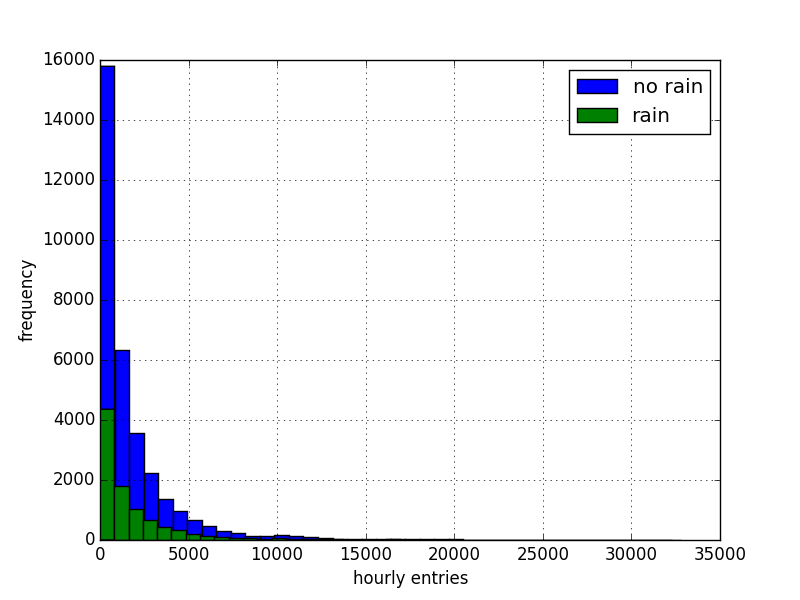
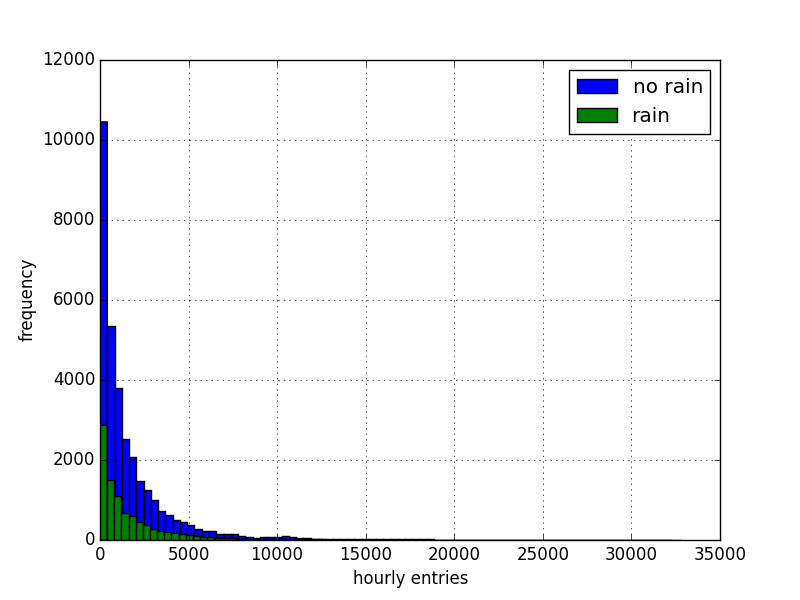
Finished everything up...

Changed region(s): [[0.0312, 0.09, 0.4062, 0.9], [0.0625, 0.48, 0.0938, 0.51], [0.0625, 0.09, 0.0938, 0.12]]

diff --git a/Documents/data_science/p1_v2/answers.html b/Documents/data_science/p1_v2/answers.html
@@ -1,0 +1,144 @@
+<h3>Section 1. Statistical Test</h3>
+
+<h3>1.1 Which statistical test did you use to analyse the NYC subway data? Did you use a one-tail or a two-tail P value? What is the null hypothesis? What is your p-critical value?</h3>
+
+	<p>I used a two tailed Mann-Whitney U test, whith a p critical value of .05. The null hypothesis in this case is that the ridership on any given rainy day is niether more nor less likely to have a higher value than the ridership on any given clear day.</p> 
+
+<h3>1.2 Why is this statistical test applicable to the dataset? In particular, consider the assumptions that the test is making about the distribution of ridership in the two samples.</h3>
+
+	<p>The Mann Whitney U test is particularly useful for this data set given its non-normal distribution. The Mann Whiteney U test, (unlike the Welche's T-test), does not assume a normal distribution, so it can be used on this data set to compare the two populations.</p> 
+
+<h3>1.3 What results did you get from this statistical test? These should include the following numerical values: p-values, as well as the means for each of the two samples under test.</h3>
+
+	<ul>
+	<li>Mean with no rain: 1105.5</li>
+	<li>Mean with rain: 1090.3</li>
+	<li>p value: 0.0249</li>
+	</ul>
+
+<h3>1.4 What is the significance and interpretation of these results?</h3>
+
+	<p>With a p critical value of 0.05 (divided by 2 for a 2 tailed test) the given p value of .0249 just barely "passes" the test. The means for clear and rainy days differ from one another by approximately 1%. While the difference in means appears otherwise insignificant, the result from the Mann Whitney U test demonstrates that the ridership on rainy days is consistently higher than the ridership on clear days.</p>
+
+<h3>Section 2. Linear Regression</h3>
+
+<h3>2.1 What approach did you use to compute the coefficients theta and produce prediction for ENTRIESn_hourly in your regression model:</h3>
+    
+    <h3>Gradient descent (as implemented in exercise 3.5)</h3>
+    <h3>OLS using Statsmodels</h3>
+    <h3>Or something different?</h3>
+
+	<p>Gradient decent was used to compute the coefficients of theta.</p>
+
+<h3>2.2 What features (input variables) did you use in your model? Did you use any dummy variables as part of your features?</h3>
+
+	<p>The following features were used as input variables:</p>
+		<ul>
+		<li>presence of rain</li>
+		<li>weekday vs. weekend</li>
+		</ul>
+		<p>-->A set of dummy variables was also used to represent the turnstile unit, and the time of the day.</p>
+
+<h3>2.3 Why did you select these features in your model? We are looking for specific reasons that lead you to believe that the selected features will contribute to the predictive power of your model.</h3>
+
+    <h3>Your reasons might be based on intuition. For example, response for fog might be: “I decided to use fog because I thought that when it is very foggy outside people might decide to use the subway more often.”</h3>
+    <h3>Your reasons might also be based on data exploration and experimentation, for example: “I used feature X because as soon as I included it in my model, it drastically improved my R2 value.”  </h3>
+	
+	<p> RAIN: I found rain to be a good candidate based off of the data analysis using the mannwhitney U test, which indicated a significant difference in ridership on the basis the presence of rain.</p>
+	<p> TIME OF DAY: Time of day is a good candidate, because one can expect regular patterns of increased/ or decreased travel at different times of day.</p>
+	<p> WEEKDAY: likewise, the weekday parameter is a good candidate, because one can expect less activity on weekends.</p>
+	<p> UNIT: The turnstile unit is a good feature, or rather, it is one that is important to take into account, because different locations are likely to have different volumes of passengers.</p>
+
+<h3>2.4 What are the coefficients (or weights) of the features in your linear regression model?</h3>
+	<h3>Rain Coefficient: </h3>
+	<ul><li>1.72187139e+01</li></ul>
+	<h3>Weekday Coeeficient:</h3>
+	<ul><li>4.53002075e+02</li></ul>
+
+	<h3>HOUR COEFFICIENTS:</h3>
+	<ul>
+	<li>00: -5.77327558e+02 </li>
+	<li>04: -4.29671714e+02  </li>
+	<li>08:  4.40671969e+02</li>
+	<li>12:  1.73381789e+02  </li>
+	<li>16:  5.23268892e+02  </li>
+	<li>20:  1.88589194e+03</li>
+	</ul>
+	<p>->Turnstile unit coefficients are omitted here, because there are too many.</p>
+
+<h3>2.5 What is your models R2 (coefficients of determination) value?</h3>
+	
+	<p>R2: 0.54</p>
+
+<h3>2.6 What does this R2 value mean for the goodness of fit for your regression model? Do you think this linear model to predict ridership is appropriate for this dataset, given this R2  value?</h3>
+	
+	<p>This value can be interpreted to mean that 54% of the variation in the ridership can be explained by the variation in the parameters of the model. So this model is not a very good fit, although it is better than chance.</p>
+
+<h3>Section 3. Visualization</h3>
+	
+
+Please include two visualizations that show the relationships between two or more variables in the NYC subway data. You should feel free to implement something that we discussed in class (e.g., scatter plots, line plots, or histograms) or attempt to implement something more advanced if you'd like.
+	
+
+Remember to add appropriate titles and axes labels to your
+
+plots. Also, please add a short description below each figure commenting on the key insights depicted in the figure.
+
+3.1 One visualization should contain two histograms: one of  ENTRIESn_hourly for rainy days and one of ENTRIESn_hourly for non-rainy days.
+
+    <h3>You can combine the two histograms in a single plot or you can use two separate plots.</h3>
+    <h3>If you decide to use to two separate plots for the two histograms, please ensure that the x-axis limits for both of the plots are identical. It is much easier to compare the two in that case.</h3>
+    <h3>For the histograms, you should have intervals representing the volume of ridership (value of ENTRIESn_hourly) on the x-axis and the frequency of occurrence on the y-axis. For example, you might have one interval (along the x-axis) with values from 0 to 1000. The height of the bar for this interval will then represent the number of records (rows in our data) that have ENRIESn_hourly that fall into this interval.</h3>
+
+    <h3>Remember to increase the number of bins in the histogram (by having larger number of bars). The default bin width is not sufficient to capture the variability in the two samples.</h3>
+
+
+<img src="visualizations/rain_vs_no_rain_histogram.png">
+<p>The histogram demonstrates that the two distributions are non normal, and similar to one another. We can also see that the total number of riders is larger for non-rainy days.</p>
+
+<h3>3.2 One visualization can be more freeform. Some suggestions are:</h3>
+
+    <h3>Ridership by time-of-day or day-of-week</h3>
+    <h3>Which stations have more exits or entries at different times of day</h3>
+<img src="visualizations/rain_by_unit_and_date.png">
+<p>This image shows that most of the rainy time periods for each unit occur in unison with one another (since we see vertical white bands, rather than randomly distributed white pixels). We can see from the visualization that only four periods of rain occur during the course of this data collection. Moreover, we can see that most of the rainy days occur during one stretch of time towards the middle of the data collection period.</p>
+<h3>Section 4. Conclusion</h3>
+
+<h3>Please address the following questions in detail. Your answers should be 1-2 paragraphs long.</h3>
+
+<h3>4.1 From your analysis and interpretation of the data, do more people ride
+the NYC subway when it is raining or when it is not raining? </h3>
+ 
+	<p>It appears to be the case from the analysis that more people ride the subway when it is raining from the data analysis, although there is not enough data to make a conclusion either way.</p>
+
+<h3>4.2 What analyses lead you to this conclusion? You should use results from both your statistical
+tests and your linear regression to support your analysis.</h3>
+    
+	<p>The mean hourly entries on days with rain was observed to be slightly greater than that of the mean hourly entries on days without rain (by approximately 1%). The Mann Whitney U test generated a p value which was just barely under the threshold for passing the threshold for passing the p test. resulted in a significantly low p value. This demonstrated a trend of consistently higher hourly entries on rainy days.</p>
+	<p>The theta value from the linear regression model was negative, and approximately 10% the size of the other theta values. This alone is not particularly helpful, because it is clear from the resulting theta values that the volume of ridership is affected more significantly by the hour and day of the week parameters. However along with the results from the statistical analysis, it does help to reinforce the trend for more people to ride the subway when it is raining.</p>
+	<p>Most importantly however, the observation from second data visualization showed that most of the rainy entries occured during a single stretch of time. This means that any number of other events during the time it was raining, including the time of day and the day of the week, could have influence the results of the statistical analysis. This is what lead me to conclude that there is not sufficient data to imply weather or not the presence of rain has a noticable effect on ridership.</p>
+
+<h3>Section 5. Reflection</h3>
+
+<h3>Please address the following questions in detail. Your answers should be 1-2 paragraphs long.</h3>
+
+<h3>5.1 Please discuss potential limitations and/or issues with the methods
+of your analysis, include limitations of and/or issues with the:</h3>
+
+    <h3>5.1.1: Dataset:</h3>
+	<p>->The data set is taken over a relatively short time span (one month). It only accounts for a four full weeks, which makes the distribution less homogenous.</p>
+	<p>-> The data sample are only taken every four hours, so a lot of the details are left out.
+	<p>->It can also be assumed that the data is not entirely accurate. For example people may cheat, and their entries aren't accounted for or there may be gitches in the data collection system. <p>
+
+    <h3>5.1.2 Linear regression model:</h3>
+	<p>->Many of the available features may have non-linear trends that can not be modelled as scalar parameters. For example, it may be possible that temperature effects ridership only when it is extremely hot.</p>
+	<p>->This dataset is also distributed accross several different regions, which may cause variations in the way in which different parameters influence the data (i.e a poor neighborhood may respond differently to rain than a wealthy neighborhood, or may have different work schedules).</p>
+	<p>->A limitation of both the data set and the linear regression model is that there are several factors that could potentially influence ridership that are not accounted for. Possible influences might include holidays, seasons, economic events and trends, extreme weather events, etc... </p>
+
+    <h3>5.1.3: Statistical tests:</h3>
+	<p>The limited time span of this data set makes it difficult to generalize the results of the statistical analysis to a larger population.</p>
+<p>The Mann Whitney U test assumes two identical distributions. As was observed in the second data visualization, the distributions of ridership volume on rainy and non rainy days are not independent, because they occur at two distinct times. This means that it is possible something else influenced the results of the test during these periods.</p>
+
+<h3>5.2 (Optional) Do you have any other insight about the dataset that you would like to share with us?</h3>
+	<p>While looking at the second data visualization, I saw that nearly all of the missing data points occured in clusters and at periodic intervals. This may be intentional (i.e. regular maintanance), although if it is not, it might indicate periodic failure of the data collection system that could be looked into.</p>
+

diff --git a/Documents/data_science/p1_v2/code/data visualization.py b/Documents/data_science/p1_v2/code/data visualization.py
@@ -17,12 +17,11 @@ def entries_histogram(turnstile_weather):
 
     plt.xlabel('hourly entries')
     plt.ylabel('frequency')
-
     #plot a historgram for hourly entries when it is not raining
-    turnstile_weather[turnstile_weather['rain']==False]["ENTRIESn_hourly"].hist(bins=40, label = "no rain")
+    turnstile_weather[turnstile_weather['rain']==False]["ENTRIESn_hourly"].hist(bins=80, label = "no rain")
 
     #plot a historgram for hourly entries when it is raining
-    turnstile_weather[turnstile_weather['rain']==True]["ENTRIESn_hourly"].hist(bins=40, label = "rain")
+    turnstile_weather[turnstile_weather['rain']==True]["ENTRIESn_hourly"].hist(bins=80, label = "rain")
 
     #put in a legend...
     plt.legend()
@@ -111,6 +110,57 @@ def rain_by_time_and_station(turnstile_weather):
 	print 'step 3 complete'	
 	
 	img.save("../rain_by_unit_and_date","bmp")
+
+
+def ridership_by_time(turnstile_weather):
+
+	## create a dictionary of dates to numerical values,
+	## to keep track of order, and fill in blanks
+
+	dates = list(set(turnstile_weather['DATEn'].values.tolist()))
+	#print dates
+	dates_dict = {}
+	i=0 
+	for date in sorted(dates):
+		dates_dict[date]=i
+		i+=1
+	#print dates_dict
+
+	time_dict = {
+	"00:00:00":0,
+	"04:00:00":1,
+	"08:00:00":2,
+	"12:00:00":3,
+	"16:00:00":4,
+	"20:00:00":5	
+	}
+
+	print 'step 1 complete'
+	
+
+	## iterate through data for each unit,
+	## and enter
+	riders_by_date = [0]*(6*len(dates_dict))
+	#print len(rain_by_date)
+	for entry in turnstile_weather.iterrows():
+		pos = dates_dict[entry[1]["DATEn"]]*6+time_dict[entry[1]["TIMEn"]]
+
+		riders_by_date[pos] += entry[1]["ENTRIESn_hourly"]
+			
+	#print len(rain_by_date)
+	
+	print 'step 2 complete'
+
+	plt.plot(riders_by_date)
+	plt.show()
+	
+	
+
+
+
+
 #entries_histogram(turnstile_weather)
 
-rain_by_time_and_station(turnstile_weather)
+#rain_by_time_and_station(turnstile_weather)
+
+ridership_by_time(turnstile_weather)
